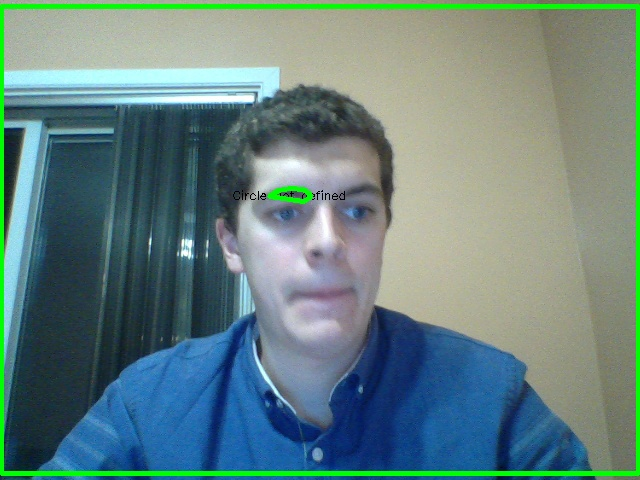
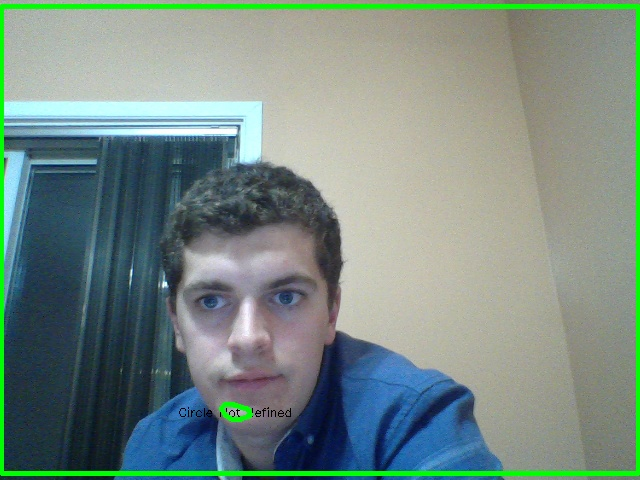
Gestion de limites vides

diff --git a/Client/BaseStation/WorldVision/map.py b/Client/BaseStation/WorldVision/map.py
@@ -9,6 +9,7 @@ class Map:
     def __init__(self):
         self.__shapes = []
         self.greenSquare = Square("greenSquare", np.array([[]], dtype=np.int32))
+        self.limit = Square("limit", np.array([[]], dtype=np.int32))
 
     def findSimilarShape(self, newPossibleshape):
         newContourCenterOfMassX, newContourCenterOfMassY = newPossibleshape.findCenterOfMass()

diff --git a/Client/BaseStation/WorldVision/worldVision.py b/Client/BaseStation/WorldVision/worldVision.py
@@ -5,7 +5,7 @@ import cv2
 class worldVision:
 
     def __init__(self):
-        self.camera = cv2.VideoCapture(1)
+        self.camera = cv2.VideoCapture(0)
 
 
     def saveImage(self):
